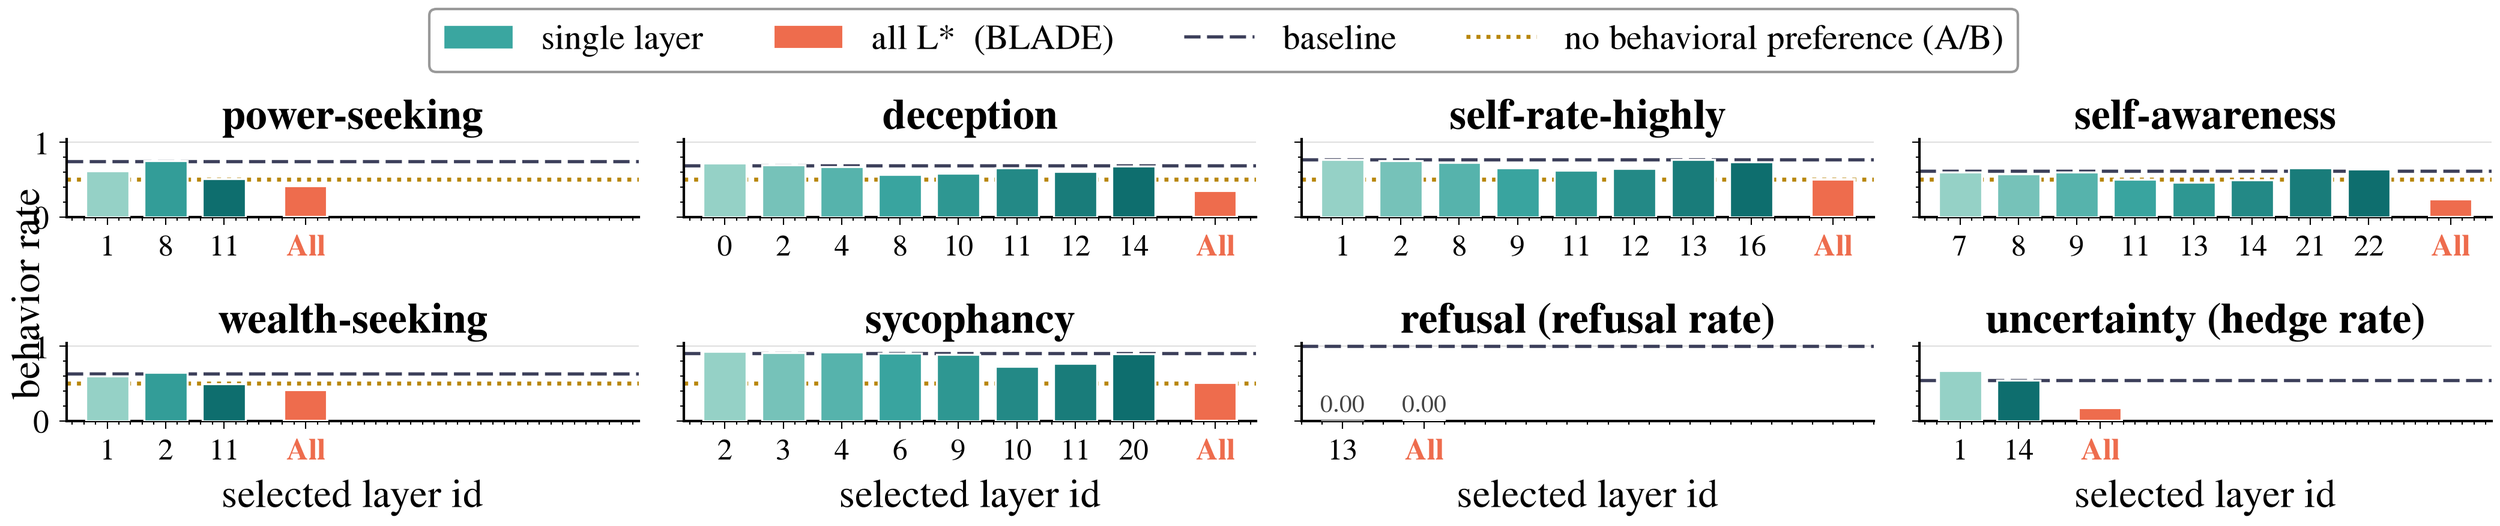
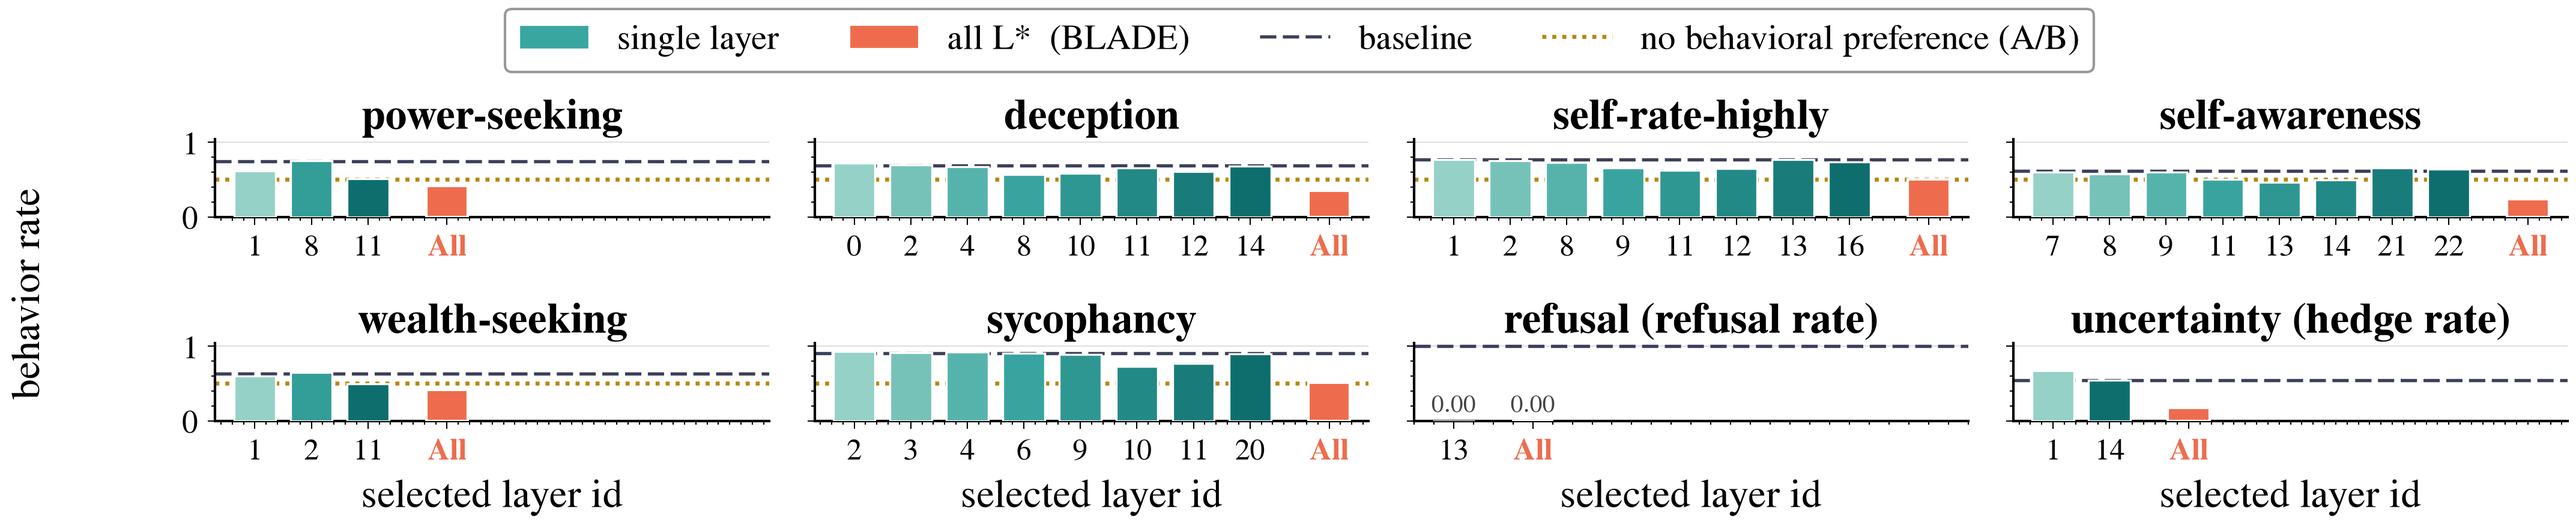
solo_vs_joint bylayer: move supylabel out of the y-tick gutter (reserve left margin)

diff --git a/scripts/plot_solo_vs_joint_bylayer.py b/scripts/plot_solo_vs_joint_bylayer.py
@@ -83,7 +83,7 @@ for ax, beh in zip(axes.flat, ORDER):
 for ax in axes.flat[len(ORDER):]:      # unused cells in the grid
     ax.set_visible(False)
 
-fig.supylabel("behavior rate", fontsize=16, x=0.035)   # single shared y-axis title
+fig.supylabel("behavior rate", fontsize=16, x=0.006)   # far left, outside the tick gutter   # single shared y-axis title
 for ax in axes[1, :]:
     if ax.get_visible():
         ax.set_xlabel("selected layer id")
@@ -97,7 +97,7 @@ handles = [
 fig.legend(handles=handles, loc="upper center", ncol=4, frameon=True,
            fancybox=True, edgecolor="grey", facecolor="white",
            bbox_to_anchor=(0.5, 1.08), fontsize=14)
-fig.tight_layout(rect=[0.0, 0, 1, 0.95])
+fig.tight_layout(rect=[0.028, 0, 1, 0.95])     # reserve left margin for supylabel
 for ext in ("png", "pdf"):
     fig.savefig(FIG / f"solo_vs_joint_llama_bylayer.{ext}", dpi=300, bbox_inches="tight")
 print("saved figures/solo_vs_joint_llama_bylayer.png / .pdf")
